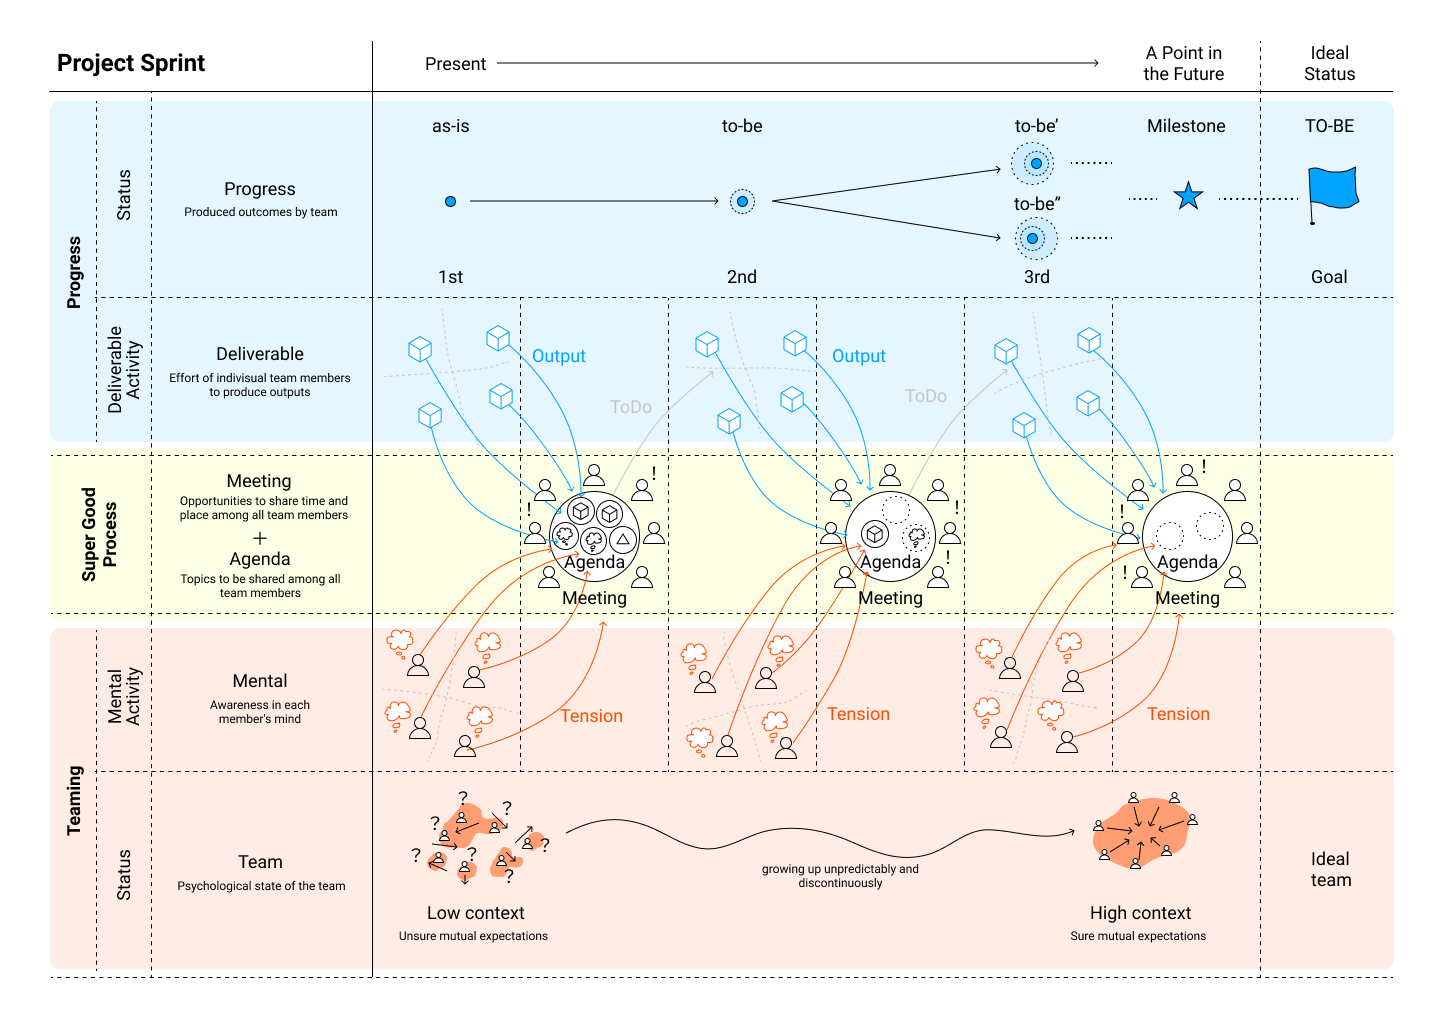
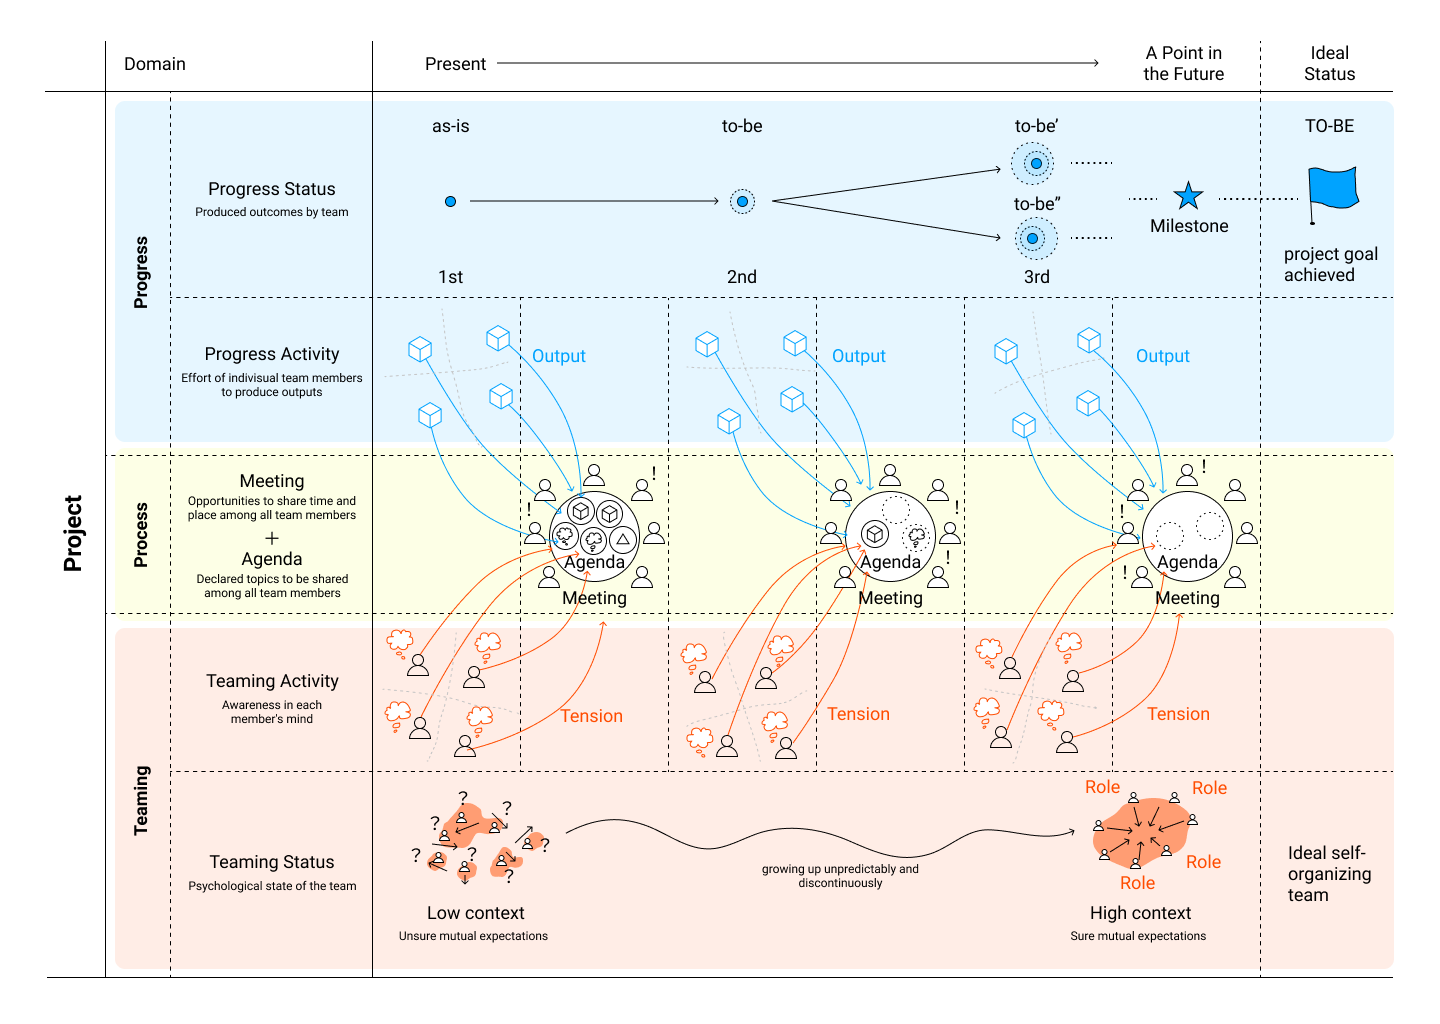
Unify terms, adding domain section

diff --git a/README.md b/README.md
@@ -8,12 +8,18 @@ Frameworks and methods for a diverse and cross-functional teams to drive project
 
 ## Releases
 
+### v0.8.2 (Mar 8th, 2020)
+
+- JA/EN
+  - Figure: Unify terms(Essentials)
+  - Figure: Adding domain section(Essentials)
+
 ### v0.8.1 (Apr 28th, 2020)
 
 - JA
   - 呼称変更：スーパーグッドプロセス -> プロセス
-　- 呼称変更：デリバラブル・アクティビティ -> プログレス・アクティビティ
-　- 呼称変更：メンタル・アクティビティ -> チーミング・アクティビティ
+  - 呼称変更：デリバラブル・アクティビティ -> プログレス・アクティビティ
+  - 呼称変更：メンタル・アクティビティ -> チーミング・アクティビティ
   - プログレス、プロセス、チーミングを、プロジェクトスプリントが扱うプロジェクトを構成する3つのドメインとして定義(Essentials)
   - ステータスの定義を改善(Essentials)
   - エッセンシャルズ内の全てのロールをプラグインに移行
